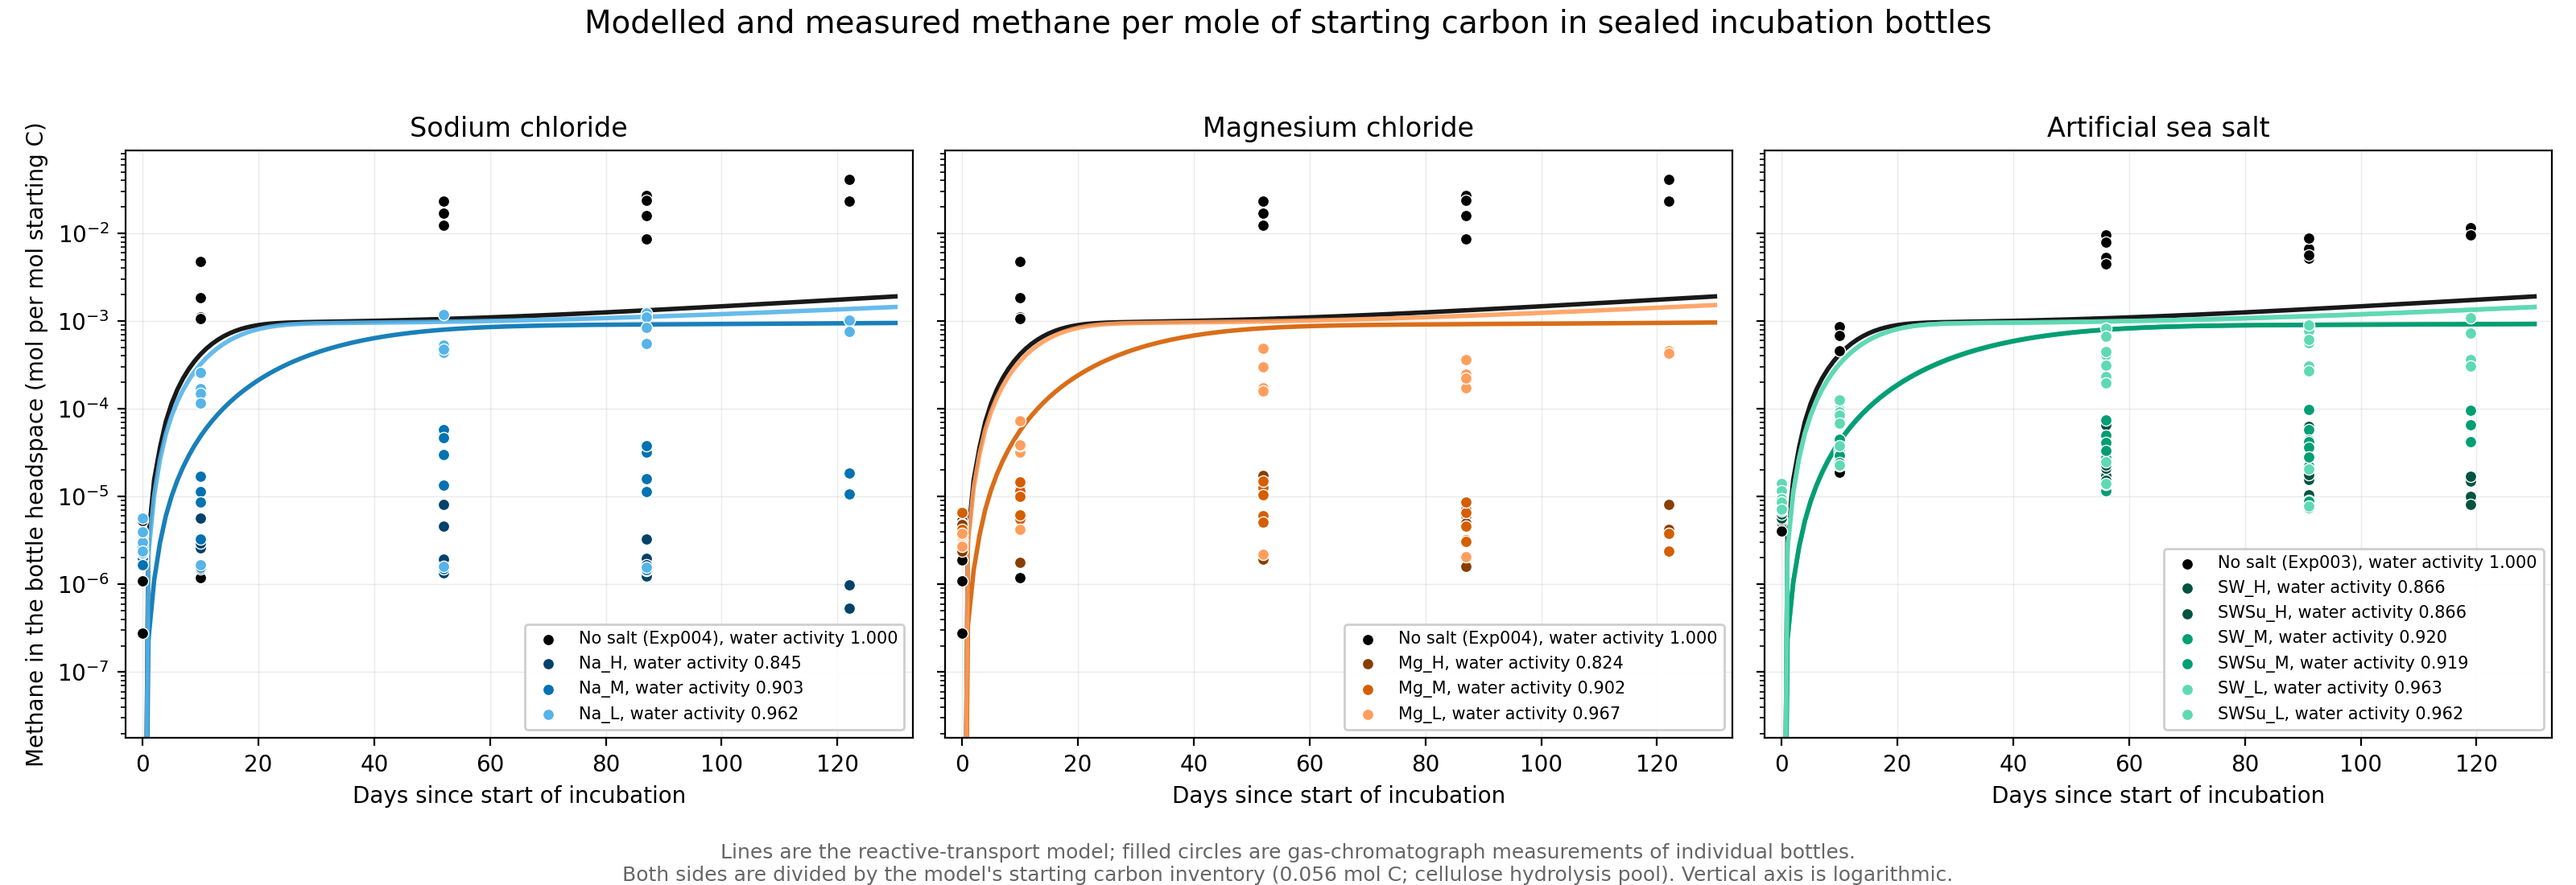
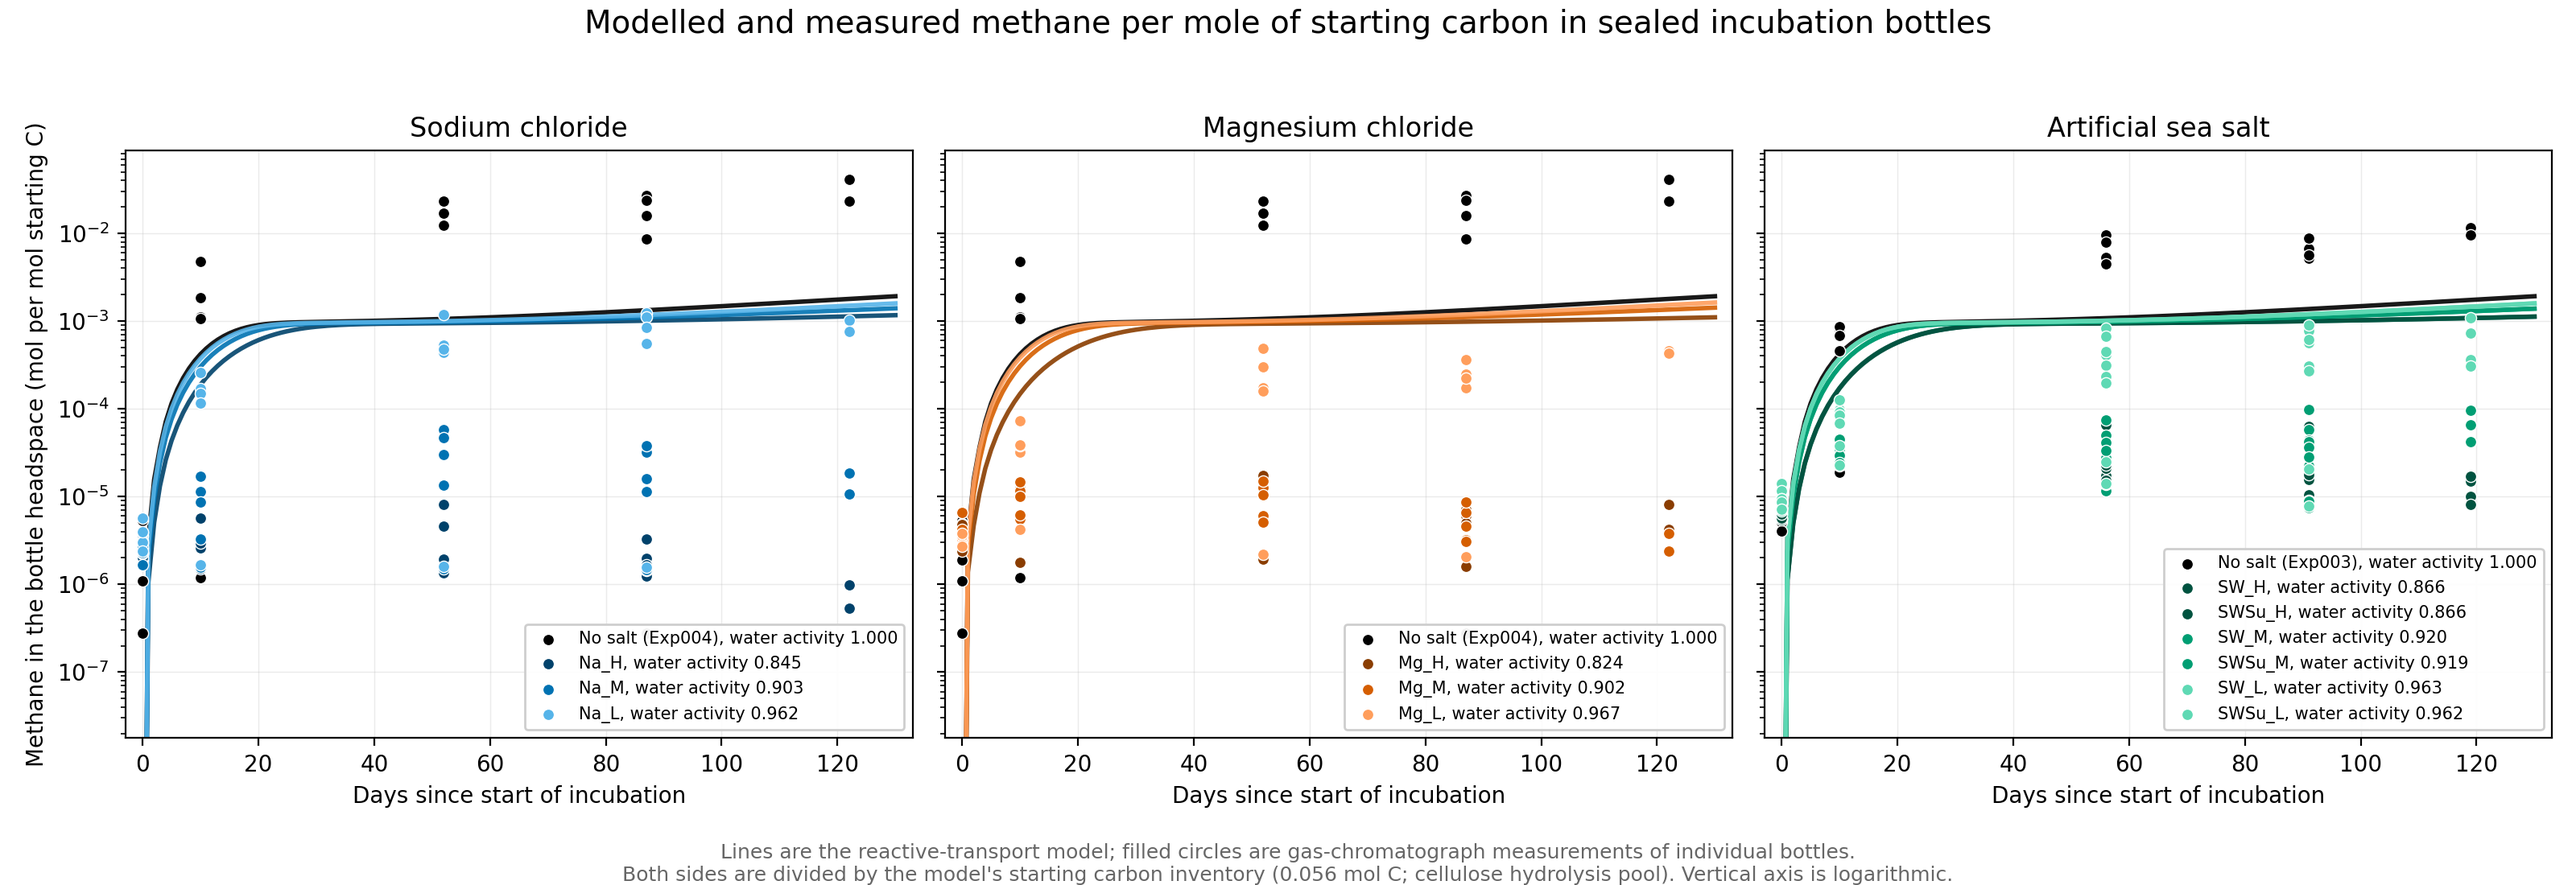
Widen a_w inhibition with a continuous ONE_MINUS_AW factor.
The 0.05-decade smoothstep was a cliff over ~0.90-1.00; osmoregulation
cost rises with (1-a_w) across the measured range. Default comparison decks
now use f=max(0,(a_w-a_crit)/(1-a_crit)) with a_crit=0.80.

Changed region(s): [[0.6875, 0.34, 1.0, 0.6182], [0.375, 0.34, 0.6875, 0.6182], [0.0625, 0.34, 0.375, 0.5564]]

diff --git a/src/pflotran_py/comparison/decks.py b/src/pflotran_py/comparison/decks.py
@@ -173,11 +173,21 @@ def main():
     parser.add_argument(
         "--aw-threshold",
         type=float,
-        default=0.95,
+        default=0.80,
         help=(
-            "Water activity at which the sandboxes centre their smoothstep. "
-            "Default 0.95 sits at the top of the measured salted range so "
-            "inhibition engages across Exp003/Exp004; it is not a methane fit."
+            "Critical water activity for the sandbox inhibition curve. With "
+            "ONE_MINUS_AW (default) this is a_crit where the rate hits zero; "
+            "with SMOOTHSTEP it centres the logistic. Default 0.80 sits just "
+            "below the driest measured bottle; it is not a methane fit."
+        ),
+    )
+    parser.add_argument(
+        "--aw-inhibition-type",
+        choices=("ONE_MINUS_AW", "SMOOTHSTEP", "THRESHOLD"),
+        default="ONE_MINUS_AW",
+        help=(
+            "Shape of the a_w rate factor. ONE_MINUS_AW is continuous in "
+            "(1-a_w); SMOOTHSTEP is a log10 logistic (interval 0.20)."
         ),
     )
     parser.add_argument(
@@ -294,6 +304,7 @@ def main():
         output_dir=args.output_dir,
         final_time_days=args.final_time_days,
         aw_threshold=args.aw_threshold,
+        aw_inhibition_type=args.aw_inhibition_type,
         **extra,
     )
 
@@ -308,7 +319,14 @@ def main():
         )
 
     lowest = result["Measured Water Activity"].min()
-    if lowest > args.aw_threshold:
+    if args.aw_inhibition_type == "ONE_MINUS_AW":
+        print()
+        print(
+            f"Sandbox ONE_MINUS_AW with a_crit={args.aw_threshold}: rate factor "
+            f"(a_w - a_crit)/(1 - a_crit) across the measured range "
+            f"(driest = {lowest:.3f})."
+        )
+    elif lowest > args.aw_threshold:
         print()
         print(
             f"Note: the driest batch sits at water activity {lowest:.3f}, above the "

diff --git a/src/pflotran_py/generator/pflotran_generator.py b/src/pflotran_py/generator/pflotran_generator.py
@@ -248,11 +248,13 @@ class PFLOTRANGenerator:
         # only for attribution runs that need the old dead-parallel behaviour.
         aw_sandbox_replaces_network_methanogenesis=True,
         # --- Reaction sandbox: water activity inhibition ---
-        # Threshold sits at the top of the measured salted a_w range so the
-        # smoothstep engages across Exp003/Exp004. Not fitted to methane.
-        aw_threshold=0.95,
+        # ONE_MINUS_AW maps rate to max(0,(a_w - a_crit)/(1 - a_crit)), a
+        # continuous osmoregulation-style factor across the measured a_w
+        # range. a_crit = 0.80 sits just below the driest bottle (0.824) so
+        # nothing is forced to a hard numerical floor; not a methane fit.
+        aw_threshold=0.80,
         aw_rate_constant=None,  # unused when per-pathway rates are emitted
-        aw_inhibition_type="SMOOTHSTEP",
+        aw_inhibition_type="ONE_MINUS_AW",
         # When set, sandboxes use this a_w instead of PFLOTRAN's ideal Raoult
         # value. Comparison decks pass the Pitzer a_w of the batch brine.
         fixed_water_activity=None,
@@ -645,8 +647,9 @@ class PFLOTRANGenerator:
           AWINHIBITMETHYL  — methylotrophic
 
         Rate constants and half-saturations are taken from the same defaults
-        as the network reactions. Water-activity threshold and smoothstep /
-        threshold mode come from ``aw_threshold`` / ``aw_inhibition_type``.
+        as the network reactions. Water-activity threshold and inhibition
+        mode (ONE_MINUS_AW / SMOOTHSTEP / THRESHOLD) come from
+        ``aw_threshold`` / ``aw_inhibition_type``.
         """
         general = self.thresholds["general"]
         o2_inh = self.thresholds["o2_inhibition"]

diff --git a/tests/test_aw_inhibition_shape.py b/tests/test_aw_inhibition_shape.py
@@ -1,0 +1,40 @@
+"""Document the ONE_MINUS_AW rate factor used by the AWINHIBIT sandboxes.
+
+The Fortran implements f = max(0, (a_w - a_crit) / (1 - a_crit)). This test
+locks the Python-side expectation so a deck-default change cannot silently
+reintroduce a cliff without updating the documented shape.
+"""
+
+import pytest
+
+from pflotran_py.generator.bottle_generator import BottleGenerator
+
+
+def one_minus_aw(water_activity: float, a_crit: float) -> float:
+    if a_crit >= 1.0:
+        return 1.0
+    if water_activity <= a_crit:
+        return 0.0
+    return (water_activity - a_crit) / (1.0 - a_crit)
+
+
+@pytest.mark.parametrize(
+    "a_w,expected",
+    [
+        (1.0, 1.0),
+        (0.90, 0.5),
+        (0.80, 0.0),
+        (0.75, 0.0),
+        (0.8424, pytest.approx(0.212, abs=1e-3)),  # Mg_H Pitzer
+        (0.9127, pytest.approx(0.5635, abs=1e-3)),  # Na_M Pitzer
+    ],
+)
+def test_one_minus_aw_factors_at_a_crit_0_80(a_w, expected):
+    assert one_minus_aw(a_w, 0.80) == expected
+
+
+def test_comparison_default_emits_one_minus_aw():
+    gen = BottleGenerator(aw_threshold=0.80, aw_inhibition_type="ONE_MINUS_AW")
+    block = gen._build_reaction_sandbox()
+    assert "INHIBITION_TYPE ONE_MINUS_AW" in block
+    assert "WATER_ACTIVITY_THRESHOLD 0.8000" in block

diff --git a/README.md b/README.md
@@ -559,7 +559,8 @@ network Monod rate law (same rate constant, half-saturations, and O₂/Fe/H⁺
 inhibition) and multiplies by an a_w smoothstep. The network's three
 methane-producing `MICROBIAL_REACTION` blocks are omitted so the two do not
 double-produce methane. Comparison decks therefore use `--no-cl-inhibition`
-and `--aw-threshold 0.95` (top of the measured salted range; not a methane
+and `--aw-inhibition-type ONE_MINUS_AW --aw-threshold 0.80` (continuous
+`(a_w − a_crit)/(1 − a_crit)` across the measured range; not a methane
 fit), and pass each batch's **Pitzer** water activity as `FIXED_WATER_ACTIVITY`
 so inhibition is not keyed on PFLOTRAN's ideal Raoult estimate (which is too
 high for Mg brines). Rebuild the container after pulling sandbox Fortran
@@ -575,7 +576,8 @@ python -m pflotran_py.comparison.brines --output data/incubation_batch_compositi
 #    AWINHIBIT sandboxes own methanogenesis (network Monod rates + a_w).
 #    Cl- Monod is off so salt is not double-counted.
 python -m pflotran_py.comparison.decks --output-dir decks \
-    --cellulose-hydrolysis --no-cl-inhibition --aw-threshold 0.95
+    --cellulose-hydrolysis --no-cl-inhibition \
+    --aw-inhibition-type ONE_MINUS_AW --aw-threshold 0.80
 
 # 3. Run them (needs the container image built; see Running PFLOTRAN above).
 python -m pflotran_py.comparison.run_decks --run-root runs --clean
